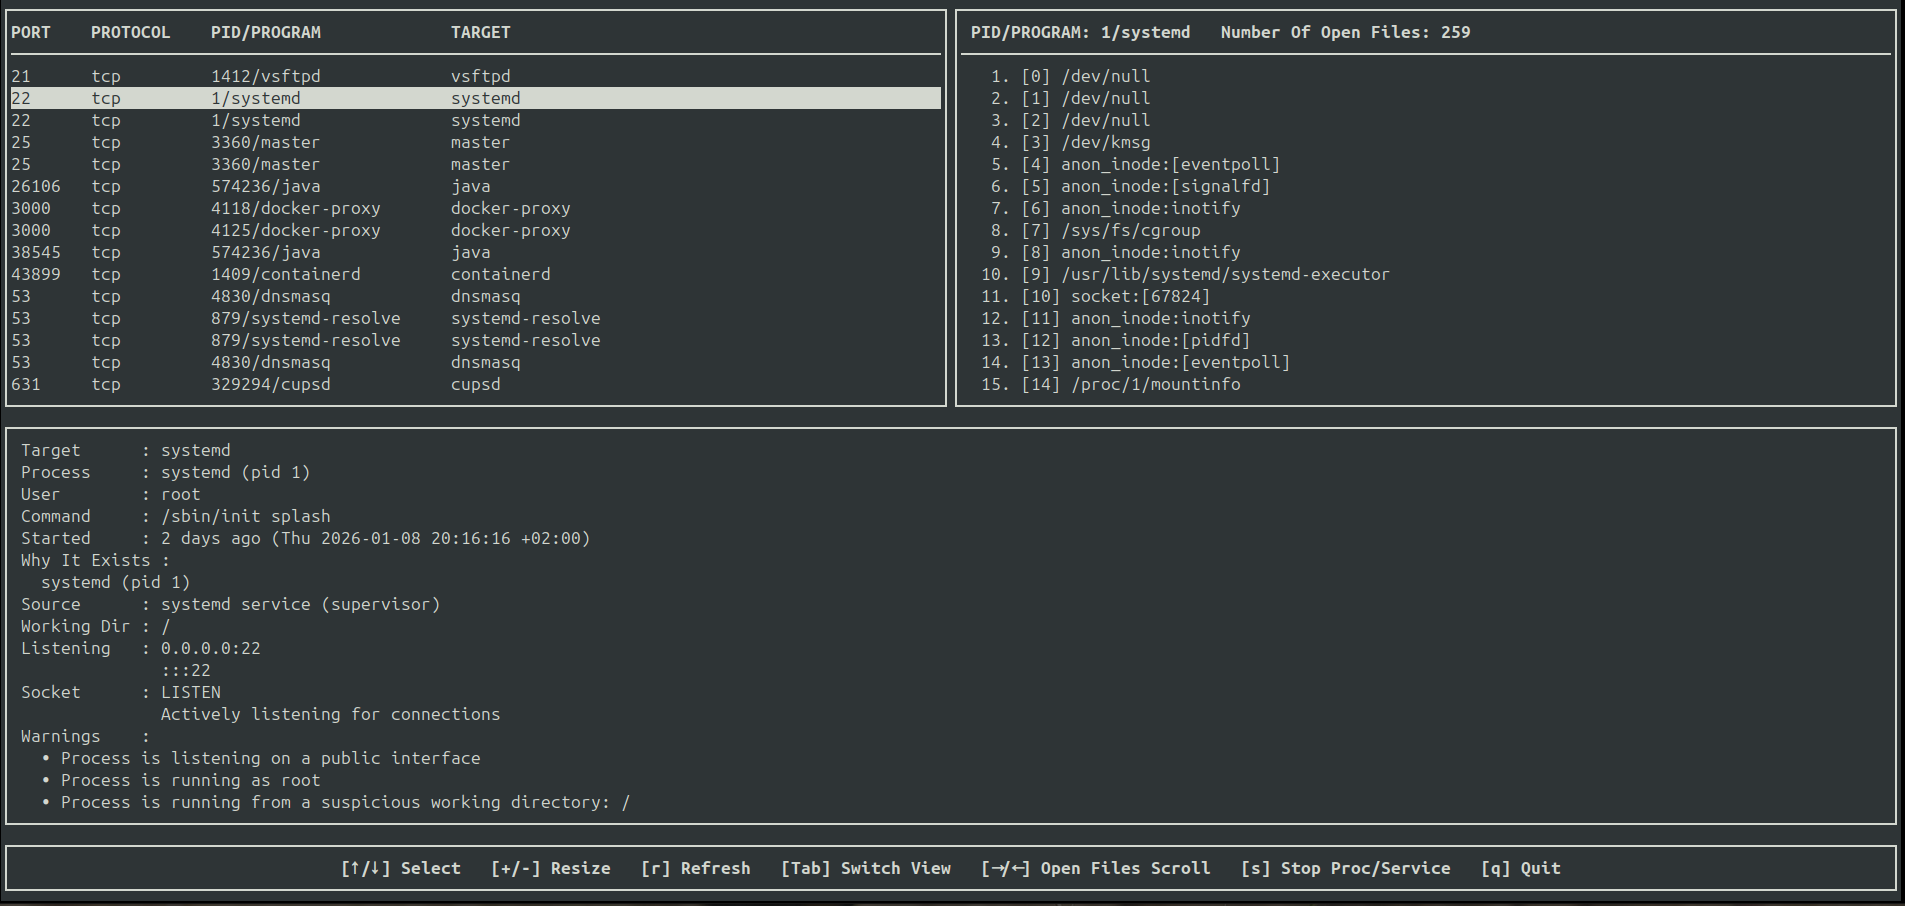
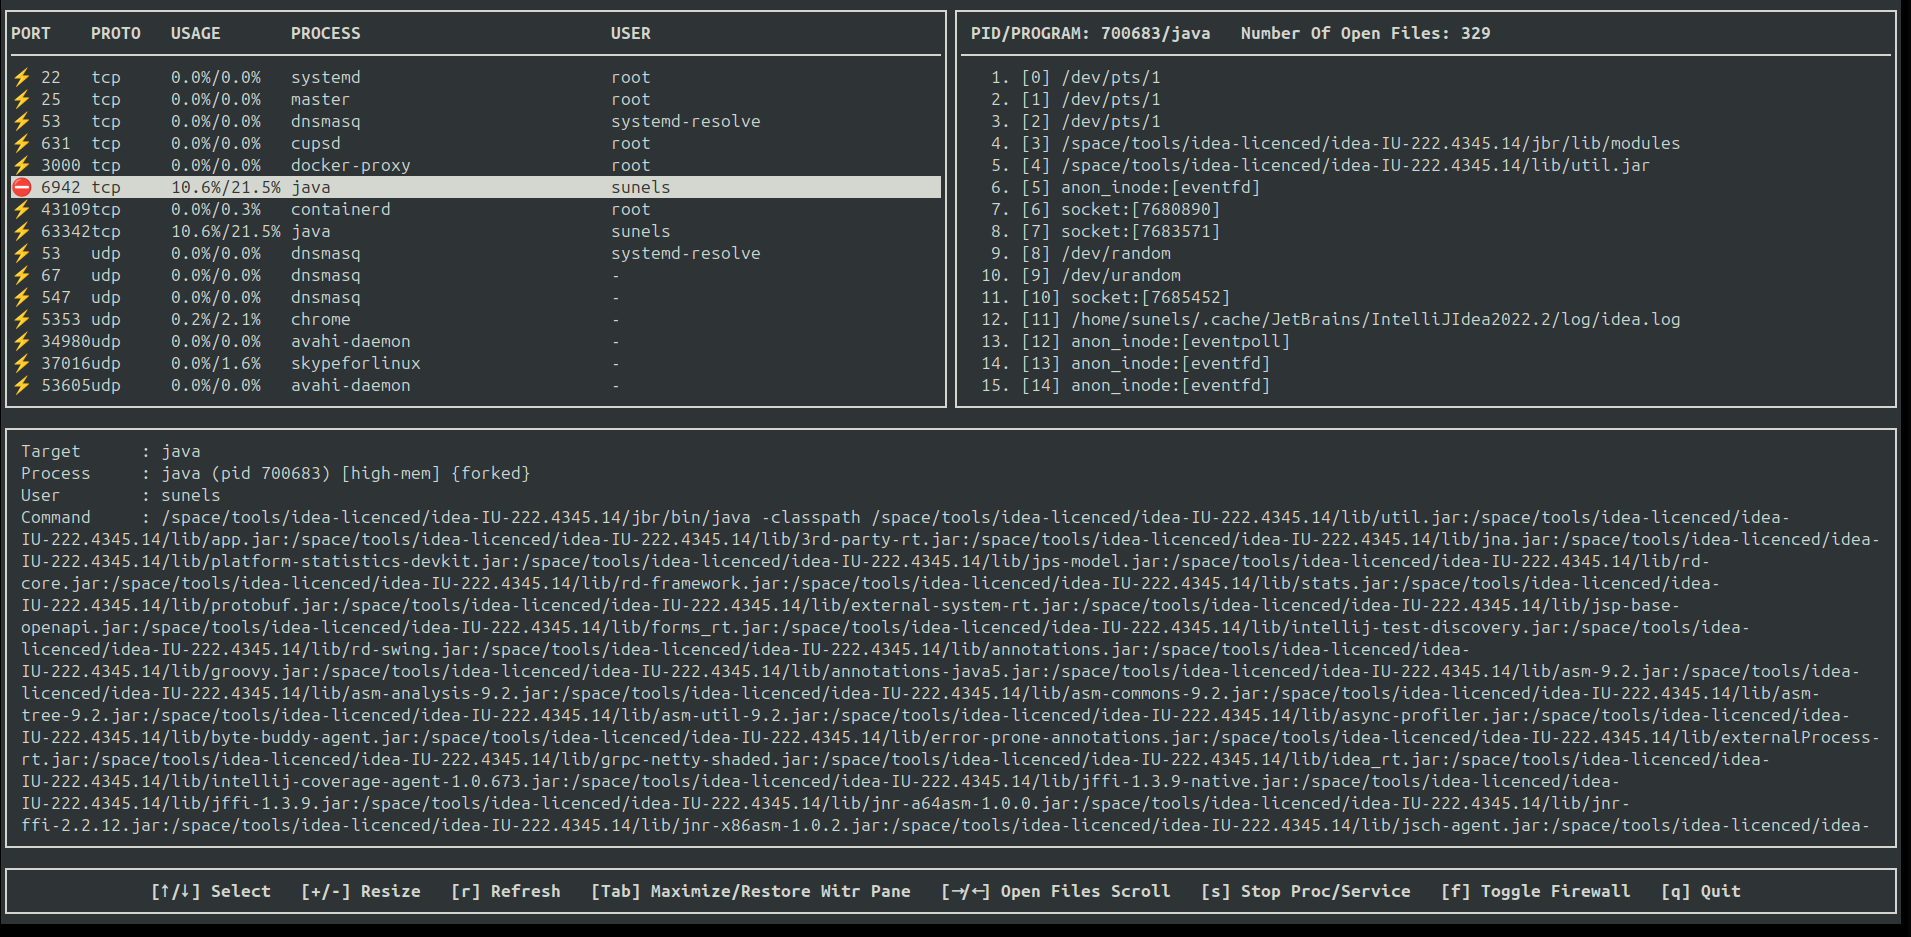
- screenshot updated - readme updated

Changed region(s): [[0.0, 0.0, 1.0, 1.0]]

diff --git a/README.md b/README.md
@@ -1,28 +1,31 @@
-<h1 style="background-color:#222; color:#FFD700; padding:10px; border-radius:5px;">
-portwitr-interactive
-</h1>
+# portwitr-interactive
 
-🔌 portwitr  <br>
-│  <br>
-├─► 🌐 Ports  <br>
-├─► 🧠 Processes  <br>
-└─► 📂 Open Files
+**Interactive terminal-based port, process, file, and resource inspector for Linux**
 
+`portwitr-interactive` is a high-performance, **curses-based Terminal User Interface (TUI)** designed to give you **instant visibility and control** over your Linux system — all from a single, interactive view.
 
-**Interactive terminal-based port, process and file inspector for Linux.**
+It enables you to seamlessly navigate the full relationship between:
 
-`portwitr-interactive` is a **curses-based TUI** that lets you explore — in real time and interactively:
+> **Open ports → owning processes → CPU & memory usage → firewall rules → files in use**
 
-> **Which port is open → which process owns it → which files that process is using**
+This eliminates the need to jump between multiple tools such as `ss`, `netstat`, `lsof`, `top`, or firewall utilities.
 
-All from a single terminal screen.
+---
 
+![portwitr-interactive logo](logo.png)
 
-<p align="center">
-  <img src="logo.png" alt="portwitr-interactive logo" width="280"/>
-</p>
+---
 
+## Core Navigation
 
+```text
+portwitr
+├─ 🌐 Ports              View all open ports and their states
+├─ ⚡ Usage (CPU/Mem)    Real-time resource consumption per process
+├─ 🧠 Processes          Process inspection and ownership mapping
+├─ ⛔ Firewall Toggle    Enable/disable firewall rules interactively
+└─ 📂 Open Files         Files and sockets used by each process
+```
 ---
 
 ## 🧠 What Makes It Special?
@@ -30,7 +33,7 @@ All from a single terminal screen.
 Unlike classic tools that show *only one layer* (`ss`, `netstat`, `lsof`),  
 **portwitr-interactive connects everything together**:
 
-🔌 **Port** → 🧠 **Process / Service** → 📂 **All open files**
+🔌 **Port** → ⚡ **CPU/MEM Usage** → 🧠 **Process / Service** → ⛔ **Firewall Control** → 📂 **All open files**
 
 ---
 
@@ -46,15 +49,19 @@ Unlike classic tools that show *only one layer* (`ss`, `netstat`, `lsof`),
 
 ---
 
+
 ## ✨ Features
 
 - 🔍 **Live port listing** using `ss`
+- ⚡ Shows **CPU% / MEM% usage** per process
 - 🧠 Maps **PORT → PID → PROGRAM**
+- ⛔ **Firewall toggle** for selected port (temporarily block/unblock traffic)
 - 📂 Displays **all open files** of the selected process (`/proc/<pid>/fd`)
 - 🧾 Deep inspection via **`witr --port`**
 - 🖥 Fully interactive **terminal UI (curses)**
 - ⚡ Real-time refresh
 - 🛑 Stop a **process or systemd service** directly from the UI (with confirmation)
+- 📝 **Warnings annotation** (e.g., suspicious working directory is flagged but explained)
 
 ---
 
@@ -63,21 +70,20 @@ Unlike classic tools that show *only one layer* (`ss`, `netstat`, `lsof`),
 ### 🖥 Main View
 
 | Key | Action |
-|----|-------|
+|-----|--------|
 | ↑ / ↓ | Move selection |
 | + / - | Resize table height |
 | → / ← | Scroll open files |
 | r | Refresh port list |
 | Tab | Switch to detail view |
 | s | Stop selected process / service |
+| f | Toggle firewall for selected port |
 | q | Quit |
 
----
-
-### 📜 Detail View
+### 📜 Detail View (witr output)
 
 | Key | Action |
-|----|-------|
+|-----|--------|
 | ↑ / ↓ | Scroll |
 | Tab | Back to main view |
 | q | Quit |
@@ -90,12 +96,15 @@ Unlike classic tools that show *only one layer* (`ss`, `netstat`, `lsof`),
     - `ss -lntuHp`
 2. **Process resolution**
     - Extracts PID & program name from socket metadata
-3. **Open file inspection**
+3. **CPU/Mem usage**
+    - Uses `ps -p <pid> -o pcpu=,pmem=` for human-readable metrics
+4. **Open file inspection**
     - Reads `/proc/<pid>/fd`
-4. **Deep context**
-    - Calls `witr --port <port>`
-5. **Control**
+5. **Deep context**
+    - Calls `witr --port <port>` and annotates warnings
+6. **Control**
     - Optional process / service stop via `systemctl` or `kill`
+    - Temporary firewall block/unblock via F key
 
 ---
 
@@ -108,42 +117,31 @@ Unlike classic tools that show *only one layer* (`ss`, `netstat`, `lsof`),
     - `systemctl`
     - `/proc` filesystem
     - `witr` (**mandatory**)
+    - `ps`
+    - `iptables` / `ufw` (for firewall toggle)
 - 🔐 `sudo` access required for:
     - `witr`
     - stopping processes/services
+    - firewall rule management
     - full `/proc` visibility
 
 ---
 
 ## 🚀 Installation
 
-> **bash
+```bash
 git clone https://github.com/sunels/portwitr-interactive.git
-cd portwitr-interactive**
-
-
----
-
-## Ensure `witr` exists:
-
-```bash
-which witr
-```
----
-
- # 🔌 Run:
-
-```bash
+cd portwitr-interactive
 python3 portwitr_interactive.py
 ```
-
----
 
 ## ⚠ Safety Notes
 
 - 🛑 Destructive actions always require confirmation
 - 🧠 PID `1` (systemd) is protected
+- ⚡ Firewall toggle only affects traffic temporarily, does **not stop process**
 - 👀 Non-root usage limits visibility (expected behavior)
+- 📝 Warnings (like suspicious working directory) are annotated with explanation
 
 ---
 
@@ -151,7 +149,7 @@ python3 portwitr_interactive.py
 
 - ❌ No reinvention of system tools
 - ✅ Built on **native Linux introspection**
-- 🔍 Read-only by default
+- 🔍 Read-only by default (except explicit stop/firewall actions)
 - 🎯 Optimized for:
     - “Port already in use” debugging
     - Security inspection
@@ -161,16 +159,13 @@ python3 portwitr_interactive.py
 ---
 
 ## 📁 Project Structure
-
-```
+```bash
 portwitr-interactive/
 ├── portwitr_interactive.py
 ├── README.md
 ├── pp-1.png
 └── pp-2.png
 ```
-
----
 
 ## 🛣 Roadmap (Ideas)
 
@@ -196,5 +191,3 @@ MIT License
 
 > 🔌 **portwitr-interactive**  
 > *See the whole picture — not just the port.*
-
-
